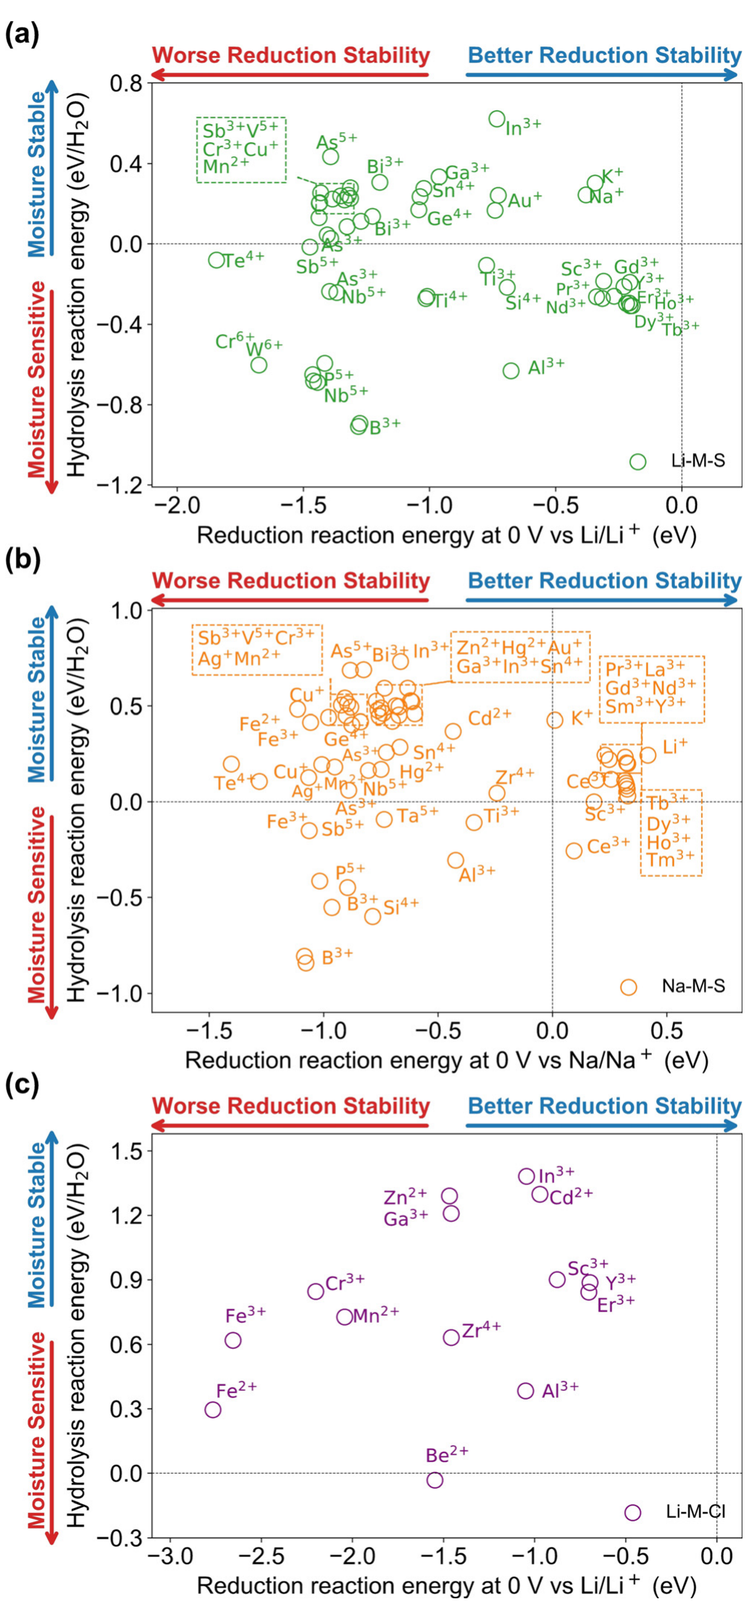
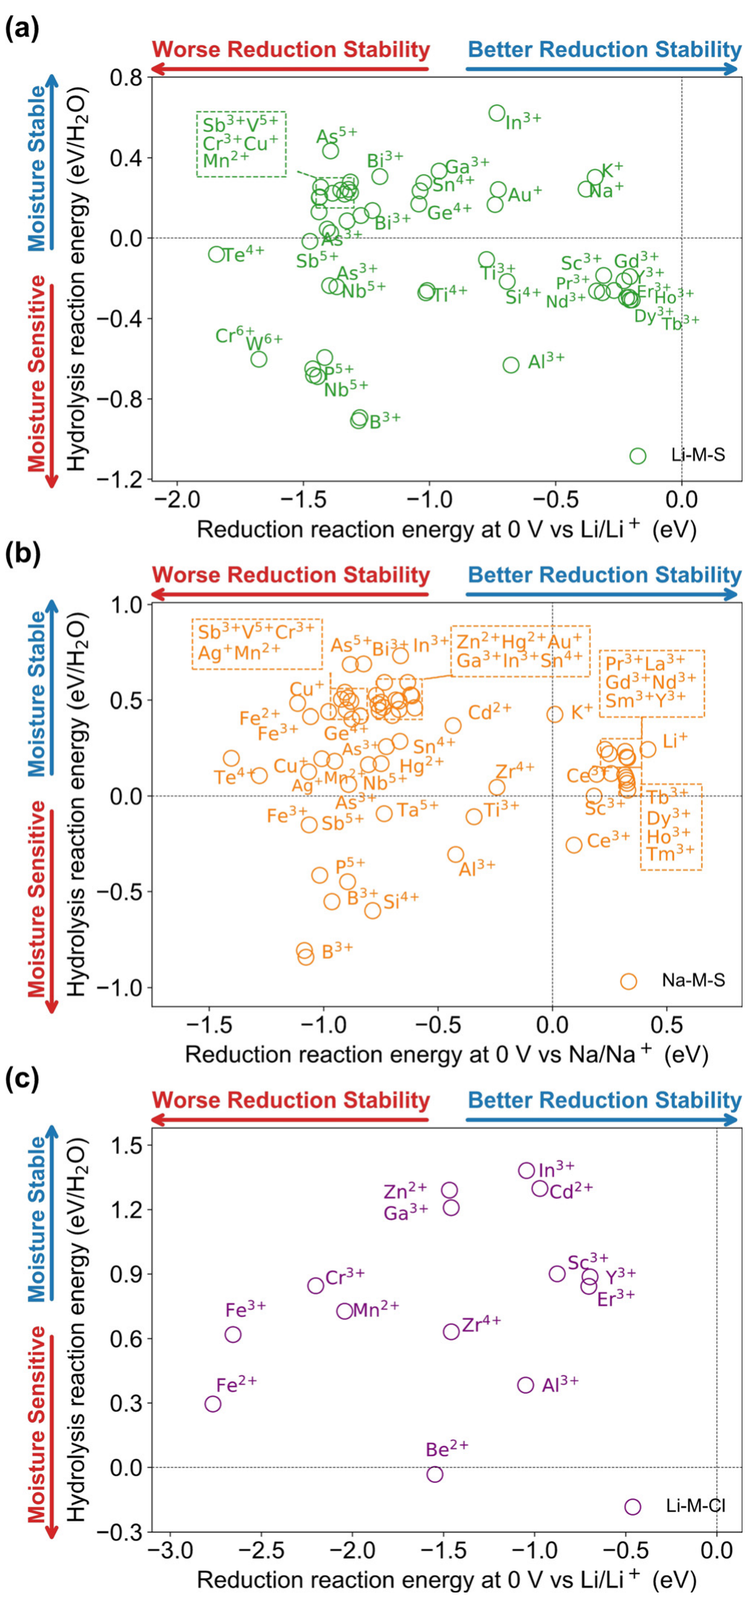
litdb: zhu2020 본문 재투입(#54) 중복 판정 + Fig.3 색인 복구 + 그림 픽셀 검산
- 판정: 본문 5pp 중복, 신규 내용 0건 (Fig1/2 캡션 문자 일치, 본문 수치 전수 재확인)
- Fig.3 이 figures.json 에서 누락돼 있던 것 복구 (2단 조판 + 오른쪽 단 세로 그림 ->
  자동 캡션 앵커 구조적 기각; 수동 bbox (300,152,548,684)@300dpi 재등록)
- Fig 2 x축 'binary 값 오름차순' 서술 정정 -- 실제는 논문 공유 고정 양이온 축(단조 아님)
- Cr6+ 미해결 항목 해소: 데이터 없는 유령 라벨로 확정
- 온전한 회색 마커 26개가 xlsx 전사값과 <=0.002 eV 일치 -> CSV 교차검증
- pdf_map.tsv 에 재추출 가드 (SI PDF 로컬 부재 -> --clean 금지)

diff --git a/litdb/INDEX.md b/litdb/INDEX.md
@@ -56,7 +56,7 @@ Status 범례: ✅ digest 완료 · ⬜ PDF만(미digest) · 📄 Excel만
 
 | `papers/choi2026_bzox_dry_zro2x_nmc_shell_coating.md` | **[외부]** ✅ **Yoo Jung Choi**(Sookmyung, 공동1)/**Hongjun Chang**(Chung-Ang, 공동1)/Jang/Sohn/J.Lee/**Jinsoo Kim**(KIER·DGIST)/**Janghyuk Moon**(Chung-Ang, DFT)/**Won-Hee Ryu**(Yonsei), "**Dry-Crafted Charge-Conductive ZrO₂₋ₓ Cathode Shell Coating for High-Performance Sulfide-Based SSBs**" (Small 2026, 0:e73805, DOI 10.1002/smll.73805; 본문+SI 통합, inbox #28, 사용자 분류 `DFT`; 자매 선행 = 같은 1저자 JMCA 2024 black-zirconia LIB, ref 23). 산소결핍 **black ZrO₂₋ₓ(BZOx**, PVP 열분해+H₂/Ar 600 °C 환원; Zr⁽⁴⁻ˣ⁾⁺ 180.68 eV·XRD ZrO₁.₈ 카드**)** 를 **dry mechanofusion**(Nob-Mini, 3:97 wt, 2000→4000 rpm)으로 **단결정 LiNi₀.₈Mn₀.₁Co₀.₁O₂(~5 µm)** 에 **~8.1 nm conformal shell**(WZO 9.7 nm) → vs LPSCl·Li금속, 3.0–4.3 V·0.1C(1C=200 mA/g). **headline**: 첫 사이클 비가역 67.45→**45.84 mAh/g**·ΔV 0.3→**0.18 V**(WZO 0.73)·CE 69.6→**77.5 %**(WZO 62.3)·100cyc **126.69 mAh/g·80.4 %**(NMC 70.6; ⚠ 유지율 %만은 WZO 85.8 최고=저용량 통계)·R_CA-SE 44.5/**192.9**/55.2 Ω·GITT 과전압 49.3/**97.7**/46.2 mV·σ_e(DC 분극) **1.49e-4→WZO 5.85e-6(÷25.5)/BZOx 3.88e-5(÷3.8)**·50cyc XPS POₓ(134.6·135.3 eV)는 pristine에만. **DFT(★방법 공개)**: VASP·PBE+**U**(Ni 6.2/Zr 5)·PAW·520 eV·k 3×3×1→9×9×3·**LiNiO₂(104)\|LPSCl(100)** 슬랩 3종(188/176/152원자; **BZOx 모델=ZrO₁.₃₃ ⚠ XRD ZrO₁.₈의 3배 공공**·LPSCl 단일 ordered) — 계면-S pDOS: LNO=E_F 직하 → Zr-산화물 접촉 −1..−2 eV 하강; 결합길이 S–O 1.97→1.65 Å(SO₂ 시사) vs BZOx=Zr–S/P–Cl(SO₂ 억제). **🔑 [Sundar] ZrO₂-실패와 상보**(코팅 대상 반대: SE=σ_e↓ 선 vs CAM=σ_e 보존 선; 저자들도 E_g 0.5–2.25 eV 창 논리로 인지). **⚠** rate 본문(1C BZOx ~140) vs SI 그래프 판독(~103, pristine 최고) 불일치·BZOx\|LPSCl 분해 열역학(Zr₃O/Li₆Zr₂O₇) 미계산(정적 pDOS뿐)·x 정량 부재·상 배정 혼선(본문 monoclinic vs 모델 P4₂/nmc) | **양극 계면(B③)·CAM 코팅(charge-conductive 산화물)·계면 S pDOS(우리 site-PDOS 계면판)+XPS S 2p 자리분해·σ_e(양극 펠릿)** (exp + DFT보조: 계면 pDOS·결합길이, VASP PBE+U) |
 
-| `papers/zhu2020_air_stable_se_design_principles.md` | **[외부]** ✅ **Yizhou Zhu**/**Yifei Mo** (UMD→Northwestern·UMD — **🔑 우리 grand-potential ESW 방법 원저자 그룹**(ref [2]=Zhu/He/Mo 2015·2016)·**[Banik]의 Mo 동일 인물**), "**Materials Design Principles for Air-Stable Li/Na Solid Electrolytes**" (Angew 2020, 59, 17472–17476, DOI 10.1002/anie.202007621; 본문 5 pp Communication + **SI 5 pp + ★ SI xlsx 전수 전사 완료 2026-08-05**(Methods·Fig S1·S2 + xlsx 6시트 **269 화합물** → `db/properties/zhu2020_si_hydrolysis_energies.csv` 99행 + `zhu2020_si_redox_reactions.csv` 170행); inbox #30, 사용자 분류 `DFT` — MP 형성에너지(**hull+50 meV 준안정 포함**)+NIST-JANAF 기체/OH 실험값 혼합 grand-potential, **자체 DFT는 4종 보조**(Li₃AsS₄·Na₃AsS₄·Li₃YCl₆·Li₂ZrCl₆; VASP PAW-PBE 520 eV+MP anion correction), 대표 가수분해 반응 = **pseudo-binary S–O 프로파일→최저 ΔG(tracer-H₂O 극한) 알고리즘 SI 명세**(재현 가능), SI xlsx엔 **0 V+4.5 V redox 전표 + ESW 창(cathodic/anodic limit, V)**도(본문 미논의) — 확보)). **가수분해(H₂S/HCl 생성) 열역학 전수 지도**: 46 M–S+52 Li–M–S+65 Na–M–S+14 Li–M–Cl(+M–Cl·Na–M–Cl은 Fig S1), 조건 **0.1 % H₂O(=RH ~3 %@300 K)·1 ppm H₂S/HCl** 고정, ΔG(eV/H₂O). 핵심 수치: **Li₂S +0.225(조건부 안정)**·Na₂S +0.416·**Li₃PS₄→¼Li₃PO₄+H₂S −0.608(자발·P₂S₅보다 나쁨 = thiophosphate 과민성 근원=초안정 인산염 구동력)**·**LiCl +0.977/NaCl +1.532**(SI). 서열: 후기TM **Zn/Cd/Cu/Ag 최고**>알칼리(토)>금속반도체 **Ga/Ge/Sn/Sb/Pb/Bi≫P**(HSAB 정량화)>Y/Cr³⁺>초기TM Zr/Hf/Ta/Nb/Cr⁶⁺/W·란타나이드(Li계) 나쁨>**P⁵⁺·B³⁺·Be/Al 최악**; Li함량↑⇒Li₂S 수준 수렴; **염화물 거의 전부 수분안정(예외 P·B; ternary는 Be²⁺만)**·병목은 환원; Na계 전반 우위. **Fig 3 2축 가이드차트(가수분해×0V 환원)**: Li황화물 중 **수분+환원 동시 만족 없음**; Sn/Ge/As/Sb=수분 OK·환원 1.0–1.5 V 희생; **RE(Sc/Y/란타나이드·Nd 포함)=Li황화물 환원안정 최우수+doping 후보 명시**·In³⁺=수분 최고; Na계는 Sc/Y/Zr/RE 동시 만족. **🔑🔑 우리 4칸 적중**: ① B④ moisture 축을 우리 파이프라인으로 즉시 구현 가능한 레시피(MP+기체 μ) ② thiophosphate 과민성=Li₃PO₄ 구동력 ↔ 우리 ICOHP P–O −8.43·O@PS₄ −0.67(O-doping=구동력 선지불) ③ RE 환원안정=우리 Nd cascade 외부 계산 선례(단 수분 개선은 O 몫으로 분리) ④ **⚠ B³⁺ 가수분해 최악급 = +B₂O₃ 조성 수분 리스크 체크 필요**(B–O 유지 vs B–S 형성). **🔴 우리가 잡은 오류(2026-08-05)**: 논문의 **염화물 표·산점도가 HCl 1 ppm 보정을 빠뜨렸다**(HCl 1개당 +0.357 eV=k_BT ln10⁶) — **Fig S1 한 장 안에서 기준선(LiCl 0.98·NaCl 1.53 = SI 본문 규약)과 데이터 점(1.34·1.88 = xlsx 규약)이 어긋난다**; 환산하면 **Li₂ZrCl₆ 0.632→−0.08·LiAlCl₄ 0.383→−0.33·Li₂FeCl₄ 0.295→−0.42·Li₂BeCl₄ −0.03→−0.75 가 수분민감 쪽으로 넘어간다**(Li₃YCl₆ 0.886→+0.17 경계). **정량 서열(xlsx)**: binary M–S는 **Pr³⁺ −0.140 ↔ Mn²⁺ +0.170 사이 0.31 eV 빈구간으로 두 무리로 갈림**(oxophilic vs 후기TM); 최악 BeS −1.053·Al₂S₃ −0.910·**B₂S₃ −0.901**, 최상 Au₂S 1.339·Cu₂S 1.267·ZnS 1.081. Li–M–S 최악 **Li₅B₇S₁₃ −0.908·Li₇PS₆ −0.682·Li₃PS₄ −0.594**, 최상 **LiInS₂ +0.622**; Li₂S(+0.225) 넘는 Li 삼원은 52종 중 12종뿐. **HSAB 검정 = 부분적으로만 성립**(양 끝은 맞으나 **Sb³⁺ +0.535 vs Sb⁵⁺ −0.167** 산화수 반전·Zn²⁺ 최상위를 설명 못함 → 실제 구동변수는 soft/hard가 아니라 **산물 산화물 안정성**). **우리 계 앵커**: Li₇PS₆(argyrodite 모체) 가수분해 −0.682·**ESW 1.708–2.129 V**; Li₃PS₄ ESW 1.708–2.369 V. **Mg는 데이터셋에 아예 없음**. ⚠ 열역학 only(kinetics/passivation 0)·argyrodite 직접 계산 아님·본문 "electrochemical stability"=환원(0 V) 전용(4.5 V 산화는 xlsx에만) | **대기안정(B④ moisture 열역학 원전)·환원(E, 0 V cation 지도)·도핑 스크리닝(HSAB 정량화·RE/In)·방법(grand-potential 화학축 확장, Mo 계보)** (DB thermodynamics, 실험 0) |
+| `papers/zhu2020_air_stable_se_design_principles.md` | **[외부]** ✅ **Yizhou Zhu**/**Yifei Mo** (UMD→Northwestern·UMD — **🔑 우리 grand-potential ESW 방법 원저자 그룹**(ref [2]=Zhu/He/Mo 2015·2016)·**[Banik]의 Mo 동일 인물**), "**Materials Design Principles for Air-Stable Li/Na Solid Electrolytes**" (Angew 2020, 59, 17472–17476, DOI 10.1002/anie.202007621; 본문 5 pp Communication + **SI 5 pp + ★ SI xlsx 전수 전사 완료 2026-08-05**(Methods·Fig S1·S2 + xlsx 6시트 **269 화합물** → `db/properties/zhu2020_si_hydrolysis_energies.csv` 99행 + `zhu2020_si_redox_reactions.csv` 170행); inbox #30, 사용자 분류 `DFT` — MP 형성에너지(**hull+50 meV 준안정 포함**)+NIST-JANAF 기체/OH 실험값 혼합 grand-potential, **자체 DFT는 4종 보조**(Li₃AsS₄·Na₃AsS₄·Li₃YCl₆·Li₂ZrCl₆; VASP PAW-PBE 520 eV+MP anion correction), 대표 가수분해 반응 = **pseudo-binary S–O 프로파일→최저 ΔG(tracer-H₂O 극한) 알고리즘 SI 명세**(재현 가능), SI xlsx엔 **0 V+4.5 V redox 전표 + ESW 창(cathodic/anodic limit, V)**도(본문 미논의) — 확보)). **가수분해(H₂S/HCl 생성) 열역학 전수 지도**: 46 M–S+52 Li–M–S+65 Na–M–S+14 Li–M–Cl(+M–Cl·Na–M–Cl은 Fig S1), 조건 **0.1 % H₂O(=RH ~3 %@300 K)·1 ppm H₂S/HCl** 고정, ΔG(eV/H₂O). 핵심 수치: **Li₂S +0.225(조건부 안정)**·Na₂S +0.416·**Li₃PS₄→¼Li₃PO₄+H₂S −0.608(자발·P₂S₅보다 나쁨 = thiophosphate 과민성 근원=초안정 인산염 구동력)**·**LiCl +0.977/NaCl +1.532**(SI). 서열: 후기TM **Zn/Cd/Cu/Ag 최고**>알칼리(토)>금속반도체 **Ga/Ge/Sn/Sb/Pb/Bi≫P**(HSAB 정량화)>Y/Cr³⁺>초기TM Zr/Hf/Ta/Nb/Cr⁶⁺/W·란타나이드(Li계) 나쁨>**P⁵⁺·B³⁺·Be/Al 최악**; Li함량↑⇒Li₂S 수준 수렴; **염화물 거의 전부 수분안정(예외 P·B; ternary는 Be²⁺만)**·병목은 환원; Na계 전반 우위. **Fig 3 2축 가이드차트(가수분해×0V 환원)**: Li황화물 중 **수분+환원 동시 만족 없음**; Sn/Ge/As/Sb=수분 OK·환원 1.0–1.5 V 희생; **RE(Sc/Y/란타나이드·Nd 포함)=Li황화물 환원안정 최우수+doping 후보 명시**·In³⁺=수분 최고; Na계는 Sc/Y/Zr/RE 동시 만족. **🔑🔑 우리 4칸 적중**: ① B④ moisture 축을 우리 파이프라인으로 즉시 구현 가능한 레시피(MP+기체 μ) ② thiophosphate 과민성=Li₃PO₄ 구동력 ↔ 우리 ICOHP P–O −8.43·O@PS₄ −0.67(O-doping=구동력 선지불) ③ RE 환원안정=우리 Nd cascade 외부 계산 선례(단 수분 개선은 O 몫으로 분리) ④ **⚠ B³⁺ 가수분해 최악급 = +B₂O₃ 조성 수분 리스크 체크 필요**(B–O 유지 vs B–S 형성). **🔴 우리가 잡은 오류(2026-08-05)**: 논문의 **염화물 표·산점도가 HCl 1 ppm 보정을 빠뜨렸다**(HCl 1개당 +0.357 eV=k_BT ln10⁶) — **Fig S1 한 장 안에서 기준선(LiCl 0.98·NaCl 1.53 = SI 본문 규약)과 데이터 점(1.34·1.88 = xlsx 규약)이 어긋난다**; 환산하면 **Li₂ZrCl₆ 0.632→−0.08·LiAlCl₄ 0.383→−0.33·Li₂FeCl₄ 0.295→−0.42·Li₂BeCl₄ −0.03→−0.75 가 수분민감 쪽으로 넘어간다**(Li₃YCl₆ 0.886→+0.17 경계). **정량 서열(xlsx)**: binary M–S는 **Pr³⁺ −0.140 ↔ Mn²⁺ +0.170 사이 0.31 eV 빈구간으로 두 무리로 갈림**(oxophilic vs 후기TM); 최악 BeS −1.053·Al₂S₃ −0.910·**B₂S₃ −0.901**, 최상 Au₂S 1.339·Cu₂S 1.267·ZnS 1.081. Li–M–S 최악 **Li₅B₇S₁₃ −0.908·Li₇PS₆ −0.682·Li₃PS₄ −0.594**, 최상 **LiInS₂ +0.622**; Li₂S(+0.225) 넘는 Li 삼원은 52종 중 12종뿐. **HSAB 검정 = 부분적으로만 성립**(양 끝은 맞으나 **Sb³⁺ +0.535 vs Sb⁵⁺ −0.167** 산화수 반전·Zn²⁺ 최상위를 설명 못함 → 실제 구동변수는 soft/hard가 아니라 **산물 산화물 안정성**). **우리 계 앵커**: Li₇PS₆(argyrodite 모체) 가수분해 −0.682·**ESW 1.708–2.129 V**; Li₃PS₄ ESW 1.708–2.369 V. **Mg는 데이터셋에 아예 없음**. **★ 3차 검증 = 본문 재투입(inbox #54, 2026-08-06, §14): 중복 확정·신규 내용 0건**이나 부산물 3건 — ① **`Fig. 3`(중심 그림)이 `figures.json` 색인에서 빠져 있던 것 복구**(2단 조판 + 오른쪽 단 세로 그림이라 자동 캡션 앵커가 구조적으로 기각; 수동 bbox 재등록 → webapp 링크 복원) ② **`Fig 2` x축은 "binary 값 오름차순"이 아님**(픽셀 검산: P⁵⁺·Zr→Tm·Nd→Pr→Ce 3곳 단조 붕괴 + Ta/Nb/W/Cr⁶⁺ 4칸은 binary 자체가 없음; `Fig S1`이 같은 55칸을 그대로 재사용 = 논문 공유 고정 양이온 축) ③ **`Cr⁶⁺` = 데이터 없는 유령 라벨로 확정**(Fig 2 칸 3계열 전부 0개·Fig 3a는 초록 원 1개를 `Cr⁶⁺ W⁶⁺` 두 라벨이 가리킴; 전사본의 Cr은 Cr³⁺ 5종뿐 → 전사 누락 아님). 덤으로 **온전한 회색 ○ 26개가 xlsx 전사값과 ≤0.002 eV 일치 = CSV 두 개의 그림 교차검증**. ⚠ 열역학 only(kinetics/passivation 0)·argyrodite 직접 계산 아님·본문 "electrochemical stability"=환원(0 V) 전용(4.5 V 산화는 xlsx에만) | **대기안정(B④ moisture 열역학 원전)·환원(E, 0 V cation 지도)·도핑 스크리닝(HSAB 정량화·RE/In)·방법(grand-potential 화학축 확장, Mo 계보)** (DB thermodynamics, 실험 0) |
 
 | `papers/jun2022_argyrodite_ion_cage_size_descriptor.md` | **[외부·⭐⭐ 이상욱 랩 AIMD 파라미터 *원전* + 기술자 계보 출발점]** ✅ **Byeongsun Jun**/**Sang Uck Lee***(**한양대 ERICA** 바이오나노·응용화학 — Jun은 이후 **현대자동차**, Lee는 이후 SKKU), "**Designing a descriptor for the computational screening of argyrodite-based SSE: uniformity of ion-cage size**" (JMCA 2022, 10, 7888–7895, DOI 10.1039/d1ta10964b; 본문 8 pp + **ESI 20 pp 전문 정독**; 순수 DFT+AIMD·실험 0; NRF 2021R1A2B5B01002879·2018M3D1A1058714, **KISTI KSC-2021-CRE-0017**; **inbox #48 · 사용자 분류 폴더 `DFT` · 본문(8 pp) 실물 독립 검증 2026-08-04 §20 = 교정 3·신규 7 · ESI(20 pp) 실물 독립 검증 2026-08-04 §21 = 교정 2·신규 12** → **본문·ESI 양쪽 실물 대조 완료, 미검증 구간 없음**) — Li₆₋ₓPS₅₋ₓX₁₊ₓ(X=Cl/Br/I, **x=0/0.25/0.5/0.75**) **4a/4c(=우리 4d) 음이온 배열 45개 전수 AIMD**. **🔑🔑 이중 가치**: ① **`kim2025_csp_metastable_edge_sharing_sse` §주의9가 "AIMD 셀·스텝·스핀은 ref 47 참조"로 넘긴 바로 그 ref 47** → **VASP 5.4.1/PAW/PBE(vdW 無·U 無)/500 eV/완화 3×3×3·힘<0.02 eV/Å; MD Γ-only·NVT Nosé–Hoover·dt 2 fs·600–1200 K 5~6점·단위셀 ~52원자(24 Li 전부 24g 완전점유)·배열×온도당 ≥3 시드 앙상블평균·자동종료 RSD(σ)<0.25 & 유효hop>250(He/Mo 2018)·무질서 ~100 ps vs 질서 ≥500 ps @800 K·pymatgen-diffusion** = **랩 계보 AIMD 재현 열쇠 확보(스핀만 원전에도 부재 → 3/4 해소)** ② **기술자 = STD of Li-cage size**(free anion→주변 Li 평균거리 = 케이지 반지름, 그 산포). **★우리가 Table 1 18행 전수 역공학 → "자리종류별 평균반경 4값(ordered는 2값)의 다중도-비가중 모집단 SD(÷N)"로 ±0.0035 재현**(Table S3는 저대칭이라 개별케이지 SD, +0.013 계통 — **두 표의 STD가 같은 양이 아닌데 Fig 5는 한 축에 섞음**). 물리 = **"케이지는 큰 게 아니라 서로 비슷해야 좋다"**(4a-cage>4c-cage 항상·X⁻케이지>S²⁻케이지 항상 → X를 작은 4c에 넣으면 크기차↓ → inter-cage 활성). ordered(0/100%) Ea 452/339 vs disordered 151–193 meV(Cl), σ 3–7자릿수 갭; σ 순서 **Cl>Br>I 6배열 전부**; 최안정 배열 **Cl 50%/Br 25%/I 0%**(=**I는 4a 강선호** → `rao2025` ΔE 0.35·`deklerk2016` all-4a intercage 0과 3중 정합); Cl x 0→0.75 **STD 0.1193→0.0615(−48%)**. **⚠⚠ 우리 판정 3건**: (a) **σ_bulk 가중식 Eq(7) P_i(σ)∝exp(−Δσ/kT)는 차원 무의미** — Δσ(mS/cm)를 kT(meV)로 나눔; **S/cm로 쓰면 σ_bulk 18.79→87.6(4.7×)**, 혼합규칙(조화 0.12 / 논문 18.79 / E-가중만 87.8)이 **3자릿수 갈림** → 실험 일치는 **차원무의미 kinetic 가중 + χc^7.14 경험보정 = 자유노브 2개**의 산물(**둘 다 이식 금지**; `kim2024` Eq S8–S11의 원출처가 여기) (b) **기술자 성능(논문 미보고, 우리가 45점으로 계산)**: Spearman ρ=**−0.78**·선형 R²=**0.44**·log R²=0.62; ordered 6개 빼도 ρ=−0.72(→"이진분류기다"는 반박은 틀림). **단 같은 점유율(50%)·다른 배열 쌍에서 부호 3/3 오답**(Cl 0.0638→23.3 vs 0.0931→**37.1**; Br·I 동일) — **분해능이 시드 잡음과 같은 크기** = 배열 층위에선 무효 (c) **시드 산포 = 단일시드 판정 금지의 외부 정량근거**: 같은 구조·온도 ≥3회에서 **무질서 1.3–2.5× / 질서 3–262×**(I 0% 262×). **🔑 우리 접점**: BVSE 채널%(정적·전역·free-volume)와 **어긋나는 조건 4가지**(큰 음이온 한쪽 몰기 / **comp1→modelc 채널 −15%인데 STD는 개선 = static-channel paradox를 STD는 통과, F* 편** / **연결성 항 없음** / 개재·코팅형은 정의 불가) → **47종 중 치환형만 계산 가능, BVSE가 여전히 유일한 전수 축**; `voronoi_volume_disorder.py`가 사촌 도구(중심만 다름); **x 0→0.6 σ 배율 ≈4–5× ≈ 우리 comp1→modelc ×4**(비율만); **config-variance 신규성 3번째 데이터점 — 음이온 배열은 앙상블·Li 공공은 23/114/211 중 최저E 1개만 = 반쪽**. **인쇄 불일치 9건**(온도 500 vs 600 K·**I 50% Ea "ᵇ27"→227**(kim2024 Table S1이 227로 인쇄)·Table 2 조성 PS₅.₇₅ 오기·"4c-cage 4.92 Å"는 실은 4a-cage·Table S1 P_i(σ) 산술오류 등). ⚠⚠⚠ **§20 본문 실물 독립 검증(2026-08-04, 재현코드 `tools/litdb/jun2022_fig_extract.py`) — 교정 3·신규 7**: **★★N1 Fig 5 의 모집단이 자기 Table 1 과 다르다** — 마커 35성분을 픽셀 복원해 18행과 1:1 대조하니 **16개만 있다**. 빠진 둘이 하필 **σ 최대 배열 Cl 50 %(P2mm) 37.1 mS/cm(y축 상한 34.97 위로 잘림)** 과 **Cl 100 %(STD 0.1336 인데 σ 0.12 — 축 안인데 미작도)** = **기술자에 가장 불리한 두 좌표**. 제거 효과 **Cl ρ −0.829 → −1.000(완전)·선형 R² 0.394 → 0.769**, 전체 R²(σ) 0.426 → 0.648(+52 %) → ⛔ **Fig 5 를 기술자 성능 근거로 인용 금지, Table 1/S3 원수치만** · **★★N2 Fig 3 은 6배열이 아니라 5배열**(범례 5줄, 50 % 중 P2₁22 만 — 초록 곡선 300 K 외삽 σ≈1.0–1.2×10² ≈ Table S1 의 115) → **σ 최대 배열은 본문 어느 그림에도 없고 Table 1 한 줄로만 존재** · **★N3 Fig 3a 축 검산으로 §6·§8.3 이 그림과 교차검증**(Cl 0 % 기울기 → Ea **449** vs 인쇄 452 meV(0.7 %); D(300 K)=1.15e−10 → NE(24 Li·a≈10 Å) σ(χc=1)=**1.71e−2** vs 3.3e−3÷0.8^7.14=1.62e−2(6 %) → **χc=0.8·지수 7.14·단위셀 52원자 재구성 동시 확인**) · **N4 새 불일치 D10** — §3.1 이 *"we performed AIMD simulations **at 300 K** for all configurations"* (§2 500–1200 K·Fig 3 600–1200 K 와 3중 어긋남; 300 K AIMD 는 논문 스스로 불가능하다고 전제한 것) · **★N5 "원전" 프레임 한 칸 후퇴** — §2 가 *"guidelines in the computational studies⁴¹⁻⁴⁴ for the key parameters (cell size, **spin**, time step, simulation temperatures and ensemble)"* 로 위임(refs 41–44 = **Mo/Ong/Ceder CM 2011·Deng/Ong CM 2016·Ong EES 2013·Zhu/Ong Springer 2018 ch.7**) = `kim2025 CSP` 와 **같은 정형구** → **"수치의 원전은 여기, 근거의 원전은 Mo/Ong"**, 그리고 **Q1(스핀)은 막다른 골목이 아님**(다음 행선지 Deng 2016·Zhu 2018) · **N6 Fig 4(c) distinct-part 는 판별력 없음** — σ 가 10⁴ 배 다른 세 배열의 G_d 지도가 육안 구별 불가 → **T12 판정축은 self-part 한정**(같은 경고 `lee2024`·`kim2025 CSP` 에 이어 3건 연속) · **N7 Fig 3 실측 구간 1000/T 0.83–1.67 = 600–1200 K, 2.0(500 K) 위치에 점 없음 → D1 재확정**; 큰 오차막대는 측정점이 아니라 **300 K 외삽점의 시드 산포**. **교정 3**: **C1 D6 강화** — Fig 4(a) 패널 라벨이 문자 그대로 **"4c-cage"/"4a-cage"/"Fused"** 여서 **그림 자신이 본문 산문("4c-cage 4.92 Å")을 부인** · **C2 D4 는 본문↔ESI 가 아니라 본문 *내부* 모순**(Table 2 "PS₅.₇₅" ↔ 같은 본문 p.7 산문 "PS₄.₇₅") · **C3 각주 c 실물은 "Standard deviation of all Li-**cate** size."**(오타·단수). **검증 재확인**: Table 1 18행×9열 전량·Table 2 12셀·DFT/AIMD 설정·ref 39/40/45–50 동정·**§5.2 STD 역공학식 독립 재계산**(Cl 25 % 0.10340 완전일치)·**Spearman ρ Cl −0.829/Br −0.657/I −0.899 3/3 재현**·통제비교 부호 3/3 오답 — **2026-07-28 digest 의 수치·역공학·통계는 본문 범위에서 흠 없음**. ⚠⚠⚠ **§21 ESI(20 pp) 실물 독립 검증(2026-08-04, 재현코드 `tools/litdb/jun2022_esi_verify.py`·`jun2022_esi_figS3_extract.py`) — 교정 2·신규 12**: **★★N8 Fig S6 의 x=0 패널도 범례가 5줄**(Cl·Br·I 셋 다, 50 % 두 배열 중 하나만; x>0 은 Table S3 27개 전수 정상) → **σ 최대 배열(Cl 50 % P2mm 37.1)은 본문 Fig 3·4·5 + ESI Fig S1–S8 을 통틀어 한 번도 그려지지 않는다 — Table 1 한 줄이 유일한 존재 증명** (§20.2 를 “논문 전체”로 격상) · **★★N9 할로겐 과잉에서 기술자가 시드 잡음 밖에서 틀린다** — Table S3 9조성군 중 **4군**에서 최소 STD 배열이 최속이 아니고 **2군은 시드 [min,max] 밴드가 분리**(**I x=0.25: STD 2.1배 작은 배열이 σ 3.0배 느림** 2.03[1.63,2.44] vs 6.10[4.07,9.35]; Br x=0.25 1.9배). n=4 인 3군은 **3/3 오답**. 기구 = 오답 3건 모두 **4c 를 X 로 100 % 채워 S²⁻ 케이지가 사라진 행**(§5.2-2 병의 재발) → **§11-3 의 “못 매긴다”를 “틀린다”로 격상**; **Table S3 만의 통계는 ρ −0.698·log R² 0.435(I 계열 0.291)** = 45배열 ρ −0.78·R² 0.62 는 x=0 ordered 자릿수 갭이 떠받친 것 · **★★N10 Table S3 σ 열을 Eq(6–8)에 그대로 넣으면 Table 2 가 안 나온다(+10~**+64 %**)** — **χc 보정을 되돌린 원값에 혼합 → 그 다음 ×χc^7.14** 라야 9/9 조성군이 ≤0.02 재현(Cl 은 Table S2 χc=1.0 열까지: 27.42/27.32·52.15/52.11·142.89/142.89). ESI 는 이 순서를 안 적고, **Table S3 캡션이 배열별 값을 σ_bulk 라 불러**(Eq 8 의 혼합 후 량과 같은 기호) 틀린 연산을 유도 → **§8.2(b) “단위 바꾸면 결과가 바뀐다”가 가상 단위변환이 아니라 논문 자신의 연산으로 실증됨 = Eq(6–8) 이식 금지 근거 강화** · **✅C4 §8.3 교정 — (1,1) 앵커는 지수를 정하지 않는다, R² 를 정한다**: 마커 픽셀 복원 = **실측 8점(χc 0.580–0.825) + 앵커 (1.0002, 1.0006)**. 1ⁿ=1 이라 앵커 잔차는 항상 0 → 넣든 빼든 피팅값 동일. **지수는 실측 8점 선형최소제곱 7.19 = 인쇄 7.14 (0.7 %) — 정직한 값**(log-log 면 8.43). 앵커가 하는 일은 **R² 0.616 → 0.971**, 그리고 논문은 R² 미보고 · **N11 같은 결정화도에서 σ_exp/σ_calc 가 8.8배 갈린다**(χc 0.690→0.122 vs 0.710→0.014; 0.710 vs 0.740 은 13.3배) = 산포가 추세보다 큼 → **χc^7.14 이식 금지의 정량 근거** · **N17 Table 2 의 “STD −48 %”에는 배열 인구조사 효과가 섞여 있다** — 자리종류 4개짜리 배열이 x=0 에 4개 → **x=0.75 에 0개**(세 할로겐 모두), 그 부분집합만 보면 추세가 평평/역전. ⚖ **단 통제비교(4a=100 % X 가족)에서는 세 할로겐 모두 단조 감소 −24/−33/−16 %** → **방향은 참, 크기 인용 금지 → 통제비교 수치로 대체** · **N13 Fig S6 범례 오식 다발(Br·I 만)** — 자리 이름(4c→4a) · 점유율 숫자 · **원소 이름(I x=0.75 범례가 “[100 % Br in 4a][75 % Br in 4a]” = 요오드 패널에 브롬)**. Cl 패널은 깨끗, 데이터는 정상 → **규율 2단 확장: 표 > 그림 > 산문, 그리고 그림 안에서도 데이터 > 범례**(배열 동정은 Table S3 로) · **N16 최안정 배열의 4a 거동이 할로겐마다 다르다** — **Cl 은 x 무관하게 4a 의 1/4 을 S²⁻ 에 내주고(75/25 고정), I 는 한 번도 안 내준다(100/0 고정)**; Br 은 2위와 0.5–0.9 meV/atom(=kT 25.85 의 1/30) 차라 사실상 축퇴 → **I 4a 강선호 재확인**(`rao2025`·`deklerk2016` 3중 정합), ⚠ Br 에선 “안정한 배열이 대부분” 서사의 근거가 약함 · **N14 D1 의 발생 기구 규명** — ESI 는 일반론으로 **“500 K to 2000 K”**, 실제 설정은 **“5 or 6 temperatures from 600K to 1200K”** → 본문 “500 K to 1200 K” 는 **일반론 하한 + 실제 상한의 혼합**. ⚠ 동시에 **“황화물 융점은 보통 1200 K 미만” 이라 써 놓고 상한을 1200 K 로 잡은 긴장** · **N15 Fig S1 자동연장 = “Continuation from previous calculation”**(재시작 아님, 시드 Run 축은 별개) → 우리 수렴기반 연장 도입 시 정본 · **C5 ESI 번호계 ≠ 본문 번호계**(He/Mo 2018 = ESI [13]/본문 45 · pymatgen ESI [16]/본문 48 · pymatgen-diffusion ESI [17]/본문 47) — `lee2024` §12-N14 와 같은 함정 · **⚠D11(후보) Table 2 Br x=0 STD 만 안 닫힌다** — 산술평균 판정은 12셀 중 **11셀이 ≤0.0001**, Br x=0 만 계산 0.1668 vs 인쇄 0.1688(Δ 0.0020 = 다른 셀의 20배). Table 1·2 가 둘 다 본문이라 ESI 회차로는 미확정 → **Q7** · **N18 χc 역산 0.722–0.826**(ESI 주장 “70–80 %”, 10점 중 2점이 밖) ⚠ **결정화도를 실측한 건 Jung 2020[20] 뿐**이고 Adeli·Feng 점은 회귀를 뒤집어 추정한 것(순환) → **이 보정식의 실질 근거 전체가 Jung 2020 한 편, 그 R² 가 0.616** (Q6 중요도 상승). **ESI 검증 재확인**: Table S1 6×7·Table S2·**Table S3 27×11**·Table S4 전량 일치, **D7(“0.00”)·D8(캡션 Cl 전용)·D9(P_i(σ) 0.0028 = 식 대비 3.32배)·D1(Fig S1 “600–1200 K”) 실물 확정**, Eq(7) 차원 문제는 **ESI 원문 축자로 확정**, **kT 역산 25.70–25.71 meV → T=300 K 확정**, χc 보정 사슬 8칸 3자리 재현. ⚠ **σ 절대값 인용 금지**(PBE-AIMD; 같은 랩이 2년 뒤 **optB88만 무질서 의존 재현** 판정, I σ 0.84는 실험 대비 200–400× 과대) · **x=0.75(σ 29.04)는 실험 대조 0**이고 `adeli2019` 고용한계 x=0.5 미언급 · 케이지 반지름의 **계산온도·Li 컷오프 미명시 → 엄밀 재현 불가** · Fig 5 **R²·오차막대 없음·σ 선형축** · Haven=1 · MSD 창 미명시 · 단위셀 1개(수렴확인 없음) | **기술자(ion-cage size STD)·이온전도(무질서 6배열×3할로겐×4조성 전수 AIMD)·무질서 처리(enumlib)·★AIMD 파라미터 원전·van Hove(self/distinct)·σ_bulk 가중+결정화도 보정(비판적)** (순수 DFT+AIMD, 실험 0, 외부) |
 | `papers/kim2024_mtp_argyrodite_disorder_gb.md` | **[외부]** ✅ Ji Hoon Kim(SKKU)/Byeongsun Jun·장용준·최선호·최성현·조성만·김용구(**현대자동차**)/**Byung-Hyun Kim(한양대 ERICA 응용화학 ⚠우리그룹 아님)**/**Sang Uck Lee***(SKKU), "**Highly reliable and large-scale simulations of promising argyrodite SEs using a machine-learned moment tensor potential**" (Nano Energy 2024, 124, 109436, DOI 10.1016/j.nanoen.2024.109436; **inbox #35, 사용자 분류 `DFT`** — 본문 10 pp+SI 28 pp 전문 정독, **본문 실물 감사 완료 2026-07-28**: Table 1/2·GB·PS₄ 전값 digest 일치·본문 §2.5 힘 MAE "0.1 meV/Å" 단위 오기 추가 확인; **SI 실물 감사 완료 2026-07-28**: SI 실물 = **inbox #35 Sup**(28 pp, 업로드본과 동일 판본) — Table S1–S3·Fig S1–S13·Eq S1–S12 **전값 일치**·Fig S2/S3 힘 단위 오기 실물 재확인(S2=축 라벨·S3=inset)·I조성 Ea 복제 실물 확인·[새] SI 상호참조 오류 2건(Note S4→"Table S3"·Note S3→"Eqn. S8" 오지칭); 순수 계산·실험 0) — Li₆PS₅X(X=Cl,Br,I) **6가지 4a/4c(=문헌 4a/4d) 무질서 배열 전수를 MTP-MLIP MD로**: 훈련 7200 스냅샷(6배열×±5% strain×AIMD 300–1200 K 10 ps)·MTP R_cut 5 Å/lev 8·**functional 3종 학습 비교 → optB88-vdw만 site-disorder 의존 재현**(σ80%bulk PBE 4.19/PBE-D3 0.55/**optB88 2.46** vs exp 2.3–2.5; PBE·D3는 100%-ordered를 3.7 mS/cm로 오판). **ordered(0/100%) Ea 339–529 meV·σRT ≤0.12 vs disordered(25–75%) 151–256 meV·13–42 mS/cm**(3–4자릿수 갭; MSD caged vs free). 27셀 Boltzmann-가중 **random supercell**(1404원자·NVT승온+NPT 10 ns·350–500 K×2회) σ100% 11.5 → **χc^7.14 결정화도 보정 σ80% 2.3**(실험 일치; Br 1.8/I 0.5). **PS₄ 회전·진동 고정 시 D600K −50%(disordered)/−18%(ordered)** = 음이온 동역학이 Li 확산 증폭. **Σ5[100](021) tilt GB**(γ≈1.35 J/m² 최저(tilt<twist)·active-learning MTP·**>13,860원자·NPT 350 K 10 ns**): **D_GB 5.4e-8 = 0.3× bulk 1.8e-7 cm²/s**·영향권 **10–20 Å**·**Li 정전기 축적**(GB의 PS₄³⁻+S²⁻ 인접 음전하 트랩; Li–Li RDF 단축·bulk-D 100 ps 3.4e-7→10 ns 1.6e-7 = 단시간 MD 2× 과대)·처방=**고산화수 도핑으로 S 전하↓(inductive effect)**. **🔑 우리 3접점**: ① disorder_ensemble(ordered frozen·artifact 1.17 / disordered 0.177±0.027 eV)과 **방향 완전 일치** — 단 comp1 0.253을 '완전질서 모델값'으로 쓰지 말 것(완전질서 모델은 0.45+) ② **"MLIP σ 절대값=훈련 functional 각인"(σ80% 8배 갈림) = 우리 UMA 절대 σ 인용 금지 규율의 외부 정면 증거** ③ GB=우리 공백 축([KimICCF] 미세구조 병목 서사의 계산판; 처방은 우리 cascade ICOHP/Bader 언어). ⚠ P_i(σ)∝exp(−Δσ/kT) 차원 무의미 heuristic·χ^7.14 경험 회귀(이식 금지)·힘 MAE 표기 불일치(본문 "<0.02" vs Fig S3 0.066–0.075 eV/Å·축 meV/Å 오기)·Table S1 I조성 Ea 열 AIMD=MTP 복제 의심·random 4c-Cl 평균 42.6% vs 실험 70%(Rayavarapu) 미점검·GB 단일 모델·Li 축적 10 ns 미수렴 | **이온전도(무질서 6배열 전수·random supercell·MLIP-MD 방법론)·GB(σ 지연·Li 축적·10–20 Å)·PS₄ 회전 동역학** (순수 계산: DFT+AIMD+MTP-MLIP, 실험 0) |

diff --git a/litdb/comparison_vs_ours.md b/litdb/comparison_vs_ours.md
@@ -61,7 +61,7 @@
 | **[Liang]** | Liang/Sun/Yu/Wu/Xing/Kou/**Bolong Huang** 2025 Small (21, 2502078, DOI 10.1002/smll.202502078) — **"Unraveling Li-ion migration in *quasi-layered* argyrodite SE"** *순수 이론*(CityU HK / CAS Beijing, **외부**). **50% 4a/4c anion disorder → 준층상 "P2mm"**(abstract P2₁2₁2₁; ⚠표기불일치) 음이온 골격(S층/halide-cage/halide층/S-cage). **4c-halide 약결합(Cl–Li Mayer bond order ≤0.5×S–Li)+4a-S 고활성** → **inter-layer 비등방 전도**(σ_up halide층 > σ_down S층, **최대 2.07** @SnS₄·I). **inter-cage(=층간) jump = 거시 σ 율속**(NEB Ea **0.12** ≈ AIMD Arrhenius **0.088 eV**, Li₆PS₅Cl). σ Cl>Br>I(300K 0.245/0.175/0.147)·**PSe₄ 최고(1.18 S/cm)·GeS₄ 최저**(강결합). 2축(halide×cage-cation) 치환을 **Mayer bond order *균일성*** 과 상관. DOS disorder↑→저E이동(안정화)·**ELF 저영역=Li 궤적**·IRI 분산상호작용. **방법 제안: NEB(평균 퍼텐셜=implicit-solvent 유추)로 SSE Ea 직접계산**. GTH-PBE-q3(CP2K 시사); k/ecut/supercell/AIMD시간 **미공개**. ⚠ **준층상(4a/4c) ≠ 우리 cubic F-43m(4a/4d)** — **inter-layer≠inter-cage·σ_up/σ_down 비등방≠우리 등방**; σ=AIMD 외삽 절대값(과대 가능). **원리(anion-site 기전·connectivity 율속)만 공유, 수치/구조 직접등치 금지** | ✅ `papers/liang2025_quasilayered_argyrodite_li_migration.md` | DFT+AIMD+NEB+Mayer/ELF/IRI(외부, 실험0) |
 | **[BZOx]** | **Choi**(Sookmyung)/**Chang**(Chung-Ang, 공동1)/…/**J.Kim**/**J.Moon**/**W-H.Ryu**(Yonsei) 2026 Small (0:e73805, DOI 10.1002/smll.73805) — **산소결핍 black ZrO₂₋ₓ(BZOx)를 dry mechanofusion으로 단결정 NMC811 입자에 ~8 nm conformal shell 코팅**(vs 화학양론 white ZrO₂=WZO 9.7 nm), LPSCl·3.0–4.3 V. headline: 첫 사이클 비가역 67.45→**45.84 mAh/g**·ΔV 0.3→**0.18 V**(WZO 0.73)·CE **77.5 %**·100cyc **126.69 mAh/g·80.4 %**·R_CA-SE 44.5/**192.9**/**55.2 Ω**·σ_e(DC 분극, 양극 펠릿) pristine **1.49e-4** → WZO **5.85e-6(÷25.5)** / BZOx **3.88e-5 S/cm(÷3.8)** = "charge-conductive"의 정량. **DFT(VASP·PBE+U Ni 6.2/Zr 5·520 eV·LiNiO₂(104)\|LPSCl(100) 슬랩)**: 계면-S pDOS LNO=E_F 직하 → Zr-산화물 접촉 시 **−1..−2 eV 하강(안정화)**; S–O 1.97→1.65 Å(SO₂ 시사) vs BZOx=Zr–S(SO₂ 억제). ⚠ rate 본문 vs SI 그래프 불일치(pristine 최고 가능)·BZOx\|LPSCl 분해 열역학 미계산·**DFT 모델 ZrO₁.₃₃ vs 실험 ZrO₁.₈**(3배 공공) | ✅ `papers/choi2026_bzox_dry_zro2x_nmc_shell_coating.md` | exp+DFT보조(계면 pDOS·결합길이, VASP PBE+U) |
 | **[Wang22]** 🔥thermal | Shuo Wang/Yujing Wu/**Hong Li**/**Liquan Chen**/**Fan Wu** 2022 InfoMat (4(8), e12316, DOI 10.1002/inf2.12316, OA) — **"Improving thermal stability of sulfide SEs: An intrinsic theoretical paradigm"** (**IOP CAS 물리**, **외부**; ⚠ 교신 Fan Wu ≠ [Fan26]의 Li-Zhen Fan — 단 **[Fan26] ref 109 ★★★ = 이 논문**). **밀봉 석영관 황 석출 관찰**(새 측정법) + **결합에너지 서술자 Th′**={[Li]%×312.5+[P]%×346}×4+E_doped+k. 서열 **Li₂P₂S₆<Li₇P₃S₁₁(~300 °C)<Li₃PS₄(~400 °C)<Li₂PS₃<Li₆PS₅Cl(=comp1, 800 °C XRD 무변화·DSC 무피크·황석출 0)**; P₂S₃(P/S↑)로 Li₇P₃S₁₁ onset 334→384 °C; 도핑(Cu/Si/Sn/O) Li₃PS₄ 400→500 °C·**O 5 % σ 10×↓(0.077 mS/cm)**; 주기율표 Th′ 지도(최적 Zr·Mn·Fe·Cu·Si·Ni·Sn)+Li/P/S 삼원상도. **⚠ 자체 DFT 0**(Handbook 2원자 BDE+조성 산수+MP ΔH 소환)·Eq 5에 Li–Cl 항 부재(Cl=희석재 취급)·Cl-rich(1.5/1.6) 미측정 | ✅ `papers/wang2022_sulfide_thermal_stability_th_descriptor.md` | exp(황석출·XRD·DSC·Raman·EIS)+경험적 서술자(DFT 0) |
-| **[Zhu20]** 💧moisture·📐method-계보 | **Yizhou Zhu**/**Yifei Mo** 2020 Angew (59, 17472–17476, DOI 10.1002/anie.202007621) — **"Materials Design Principles for Air-Stable Li/Na Solid Electrolytes"** (UMD, **외부**; **🔑 우리 grand-potential ESW 방법 원저자 그룹** — ref [2]=Zhu/He/Mo 2015·2016=우리 방법 원전, Mo=[Banik] 공저자). **가수분해(H₂S/HCl) 열역학 전수 지도**(MP hull+50 meV+NIST-JANAF 기체/OH; 자체 DFT는 4종 보조 — VASP PBE 520 eV): 46 M–S+52 Li–M–S+65 Na–M–S+14 Li–M–Cl(+M–Cl·Na–M–Cl Fig S1), **0.1 % H₂O(=RH ~3 %)·1 ppm H₂S/HCl** 조건. **Li₂S +0.225(조건부 안정)·Li₃PS₄→¼Li₃PO₄+H₂S −0.608 eV/H₂O(thiophosphate 과민성=인산염 구동력)**; 서열 Zn/Cd/Cu/Ag 최고≫Ga/Ge/Sn/Sb/Pb/Bi≫P⁵⁺·**B³⁺ 최악급**; Li함량↑⇒Li₂S 수렴; **염화물=수분안정(예외 P·B)·병목은 환원**; Fig 3 2축(가수분해×0 V 환원) 가이드차트 — **Li황화물 중 수분+환원 동시 만족 없음·RE(Nd 포함)=환원안정 최우수 doping 후보 명시·In³⁺ 수분 최고**. ⚠ 열역학 only(kinetics 0)·**SI PDF 확보(대표반응 알고리즘 명세·LiCl +0.977/NaCl +1.532; 수치표 xlsx 미보유)**·argyrodite 직접 계산 아님·본문 "electrochemical stability"=환원 전용(4.5 V 산화 전표는 SI xlsx에만) | ✅ `papers/zhu2020_air_stable_se_design_principles.md` | DFT-DB thermodynamics(실험 0, VASP 4종 보조) |
+| **[Zhu20]** 💧moisture·📐method-계보 | **Yizhou Zhu**/**Yifei Mo** 2020 Angew (59, 17472–17476, DOI 10.1002/anie.202007621) — **"Materials Design Principles for Air-Stable Li/Na Solid Electrolytes"** (UMD, **외부**; **🔑 우리 grand-potential ESW 방법 원저자 그룹** — ref [2]=Zhu/He/Mo 2015·2016=우리 방법 원전, Mo=[Banik] 공저자). **가수분해(H₂S/HCl) 열역학 전수 지도**(MP hull+50 meV+NIST-JANAF 기체/OH; 자체 DFT는 4종 보조 — VASP PBE 520 eV): 46 M–S+52 Li–M–S+65 Na–M–S+14 Li–M–Cl(+M–Cl·Na–M–Cl Fig S1), **0.1 % H₂O(=RH ~3 %)·1 ppm H₂S/HCl** 조건. **Li₂S +0.225(조건부 안정)·Li₃PS₄→¼Li₃PO₄+H₂S −0.608 eV/H₂O(thiophosphate 과민성=인산염 구동력)**; 서열 Zn/Cd/Cu/Ag 최고≫Ga/Ge/Sn/Sb/Pb/Bi≫P⁵⁺·**B³⁺ 최악급**; Li함량↑⇒Li₂S 수렴; **염화물=수분안정(예외 P·B)·병목은 환원**; Fig 3 2축(가수분해×0 V 환원) 가이드차트 — **Li황화물 중 수분+환원 동시 만족 없음·RE(Nd 포함)=환원안정 최우수 doping 후보 명시·In³⁺ 수분 최고**. **3차 검증(본문 재투입 #54, 2026-08-06, digest §14): 중복·신규 0건**이나 그림 픽셀 검산으로 ① `Fig. 3` 색인 누락 복구 ② "`Fig 2` x축 = binary 값 오름차순" 서술 정정(실제는 논문 공유 고정 양이온 축, 단조 아님 — **우리 cascade 그림 캡션에 "값 순 정렬"이라 쓰면 같은 흠 복제**) ③ `Cr⁶⁺` = 데이터 없는 유령 라벨 확정. 온전한 회색 ○ 26개가 xlsx 전사값과 **≤0.002 eV 일치** → `db/properties/zhu2020_si_*.csv` 신뢰도 상향. ⚠ 열역학 only(kinetics 0)·**SI PDF + SI xlsx 전부 확보(대표반응 알고리즘 명세·LiCl +0.977/NaCl +1.532 · 269 화합물 전표 → `db/properties/zhu2020_si_hydrolysis_energies.csv` 99행 + `zhu2020_si_redox_reactions.csv` 170행; ⚠ 2026-08-05 이전 판의 "xlsx 미보유" 표기는 낡은 것)**·argyrodite 직접 계산 아님·본문 "electrochemical stability"=환원 전용(4.5 V 산화 전표는 SI xlsx에만) | ✅ `papers/zhu2020_air_stable_se_design_principles.md` | DFT-DB thermodynamics(실험 0, VASP 4종 보조) |
 | **[Fan26]** 🗺review·⚠미출판 | Yang Li/…/**Hong Liu**/**Ce-Wen Nan**/**Li-Zhen Fan** (USTB·Zhengzhou·Tsinghua; **[Li25]와 같은 그룹**), "**Stability Issues in Sulfide-Based ASSBs: From Material Properties to Electrode Interfaces**" — **황화물 ASSB 안정성 전축(全軸) 리뷰**(ECER-D-26-00097, Electrochem. Energy Rev. **투고 draft·DOI 없음**; 56 pp·refs 239·Fig 26; **자체 계산/실험 0**). 고유 5축(공기 HSAB·용매 donor-number·열 400–500 °C/계면 200–300 °C·전기화학 **LGPS 1.71–2.14 V**/산화 ~2 V S²⁻-우선/계면 3유형·기계 E 10–30 GPa/K_IC 0.2–0.4) + 양극(MCI·O-방출·화학-기계; 코팅·신규 CAM) + 음극(wedge-opening 덴드라이트·SEI 내 dead-Li·σ_e 내부석출·압력창; SE개질→in-situ 절연 SEI·인공 SEI·LiF/gradient). **Fig 24a/b = 우리 [Liu23]/[Li25] digest 그림** → 우리 계보가 리뷰 §5.2.2 정중앙. 미래 4방향(passive→**intrinsic stability**·동적 계면·저압·표준화). ⚠ 정성 리뷰(유지율 %·CCD 본문 부재)·draft 오타(σ 단위/refs 38=193 중복)·수치 이식 금지(전부 원전 소환) — 아래 🗺 Landscape note [Fan26] 참조 | ✅ `papers/fan2026_sulfide_assb_stability_review_ECERD2600097.md` | review(외부·미출판 draft) |
 | **[Lee26]** 🤖ML·LMB(액체) | Doo Bong Lee/Jinwoo Park(공동1)/E.Kim/**Woong Kim** 2026 ESM (86, 104972, DOI 10.1016/j.ensm.2026.104972) — "**Interpretable enhanced-ECFP-guided deep learning for rational electrolyte design & CE prediction in LMB**" (고려대·가천대, **외부**; **⚠ 액체 전해질 리튬금속전지 — argyrodite/SE 아님·자체 DFT/MD 0·물성 4축 수치비교 대상 아님**). 문헌 **168개 Li–Cu 반쪽셀 CE** + **e-ECFP**(ECFP r=2 + salt/solvent 구분·substructure 빈도·**농도 가중**; 2×1025차원; 타깃 **LCE=−log₁₀(1−CE)**) + DNN(**test RMSE 0.16·R² 0.86**; Linear test 3.05 붕괴·RF/XGB 0.21–0.22) + **SHAP** → 설계규칙 "**용매 F-rich·고리형 에터=CE↑ / 카보네이트=↓ / 염은 저불소화 LiFSI**" → **1 M LiFSI/MeTHF:TTE(1:3)**: 예측 99.63 vs **실측 CE 99.72 %**(Aurbach)·σ 0.816 mS/cm·free FSI⁻ 0(CIP/AGG=LHCE형)·**LiF+Li₂O-rich 무기 SEI**(XPS)·최치밀 Li(SEM)·LFP 1C **500cyc 97 %**·평균 CE **99.97 %**. ⚠ CE=문헌 수집 라벨(프로토콜 정규화 불명)·규칙=기지 지식 재발견·저로딩/Li 대과잉·**DBE:Tol CE 99.88인데 유지율 꼴찌(σ 0.029)=CE 단일축 한계 자체 실증** — 아래 🤖 note 참조 | ✅ `papers/lee2026_eecfp_dnn_electrolyte_ce_lmb.md` | exp+ML(e-ECFP/DNN/SHAP, DFT 0) |
 | **[Liu-hBN]** 🔋새프로젝트시드·Li-metal-anode | Xiaoyu Liu/…/**Yuejiao Chen**/**Libao Chen** 2022 Adv. Mater. Interfaces (9, 2200011, DOI 10.1002/admi.202200011) — "**Uniform Lithium Deposition Induced by Double Lithiophobic Sandwich Structure**" (Central South Univ., **외부**; **⚠ 황화물 SE 아님 · Li 금속 음극/Cu 집전체 위 lithiophobic h-BN 코팅 · 물성 4축 수치비교 대상 아님**). Cu에 **h-BN 분말(300 nm, 15 µm) 코팅** → DFT(**VASP/PBE/500 eV/Γ 2π·0.04/MP**) 흡착E 서열 **Li–h-BN −0.33**(약함=lithiophobicity) < **Li–Cu(111) −2.50** < **h-BN–Li–Cu(111) −3.16 eV**(샌드위치 최강, N→Li 전하이동 CDD) → Li가 h-BN·Cu *사이*로 파고들어 **"h-BN–Li–Cu" 평평 증착**. **기계강도 아님**(코팅 E 1.655 GPa ≪ Li 4.9). 대칭셀 **>500 h**(Cu 250 h 단락)·CE **>95 %/240cyc**·LFP full 1C 300cyc **73.3 vs 33.3 %**. **🔋 우리 새 ORCA 프로젝트(VGCF+h-BN 샌드위치, Li 흡착·확산)의 *방법 원형*** — 아래 🔋 project-seed note 참조. ⚠ 흡착E 정의식·Li 기준상태·vdW 미공개·**확산장벽 미계산**(abstract "barrier"=실험 overpotential)·nucleation overpotential 효과 미묘/혼재 | ✅ `papers/liu2022_hbn_lithiophobic_sandwich_li_anode.md` | exp + DFT(VASP 흡착E 3-모델+CDD, 외부) |
